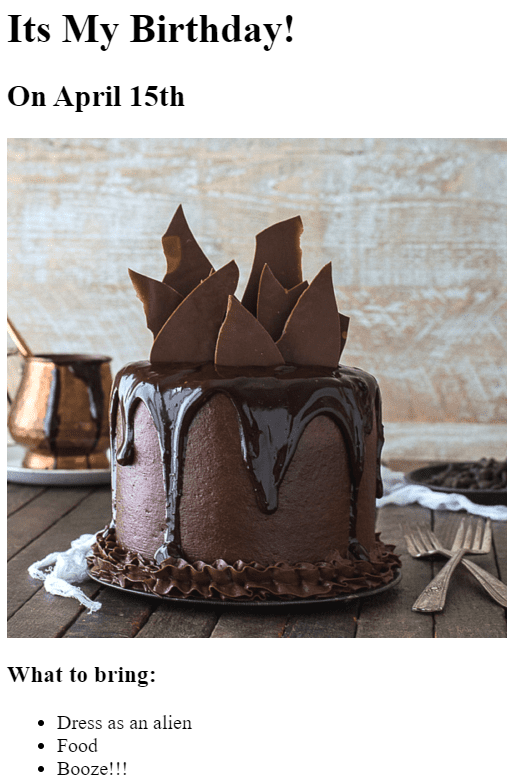
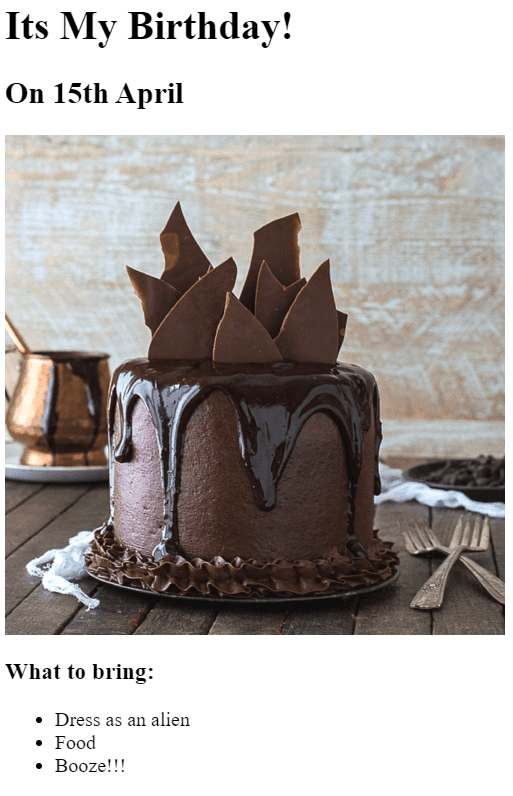
Add files via upload

diff --git a/public/birthday-invite.html b/public/birthday-invite.html
@@ -1,5 +1,5 @@
 <h1>Its My Birthday!</h1>
-<h2>On April 15th</h2>
+<h2>On  15th April</h2>
 
 <img height=400px src="../assets/images/chocolate-cake.webp">
 
